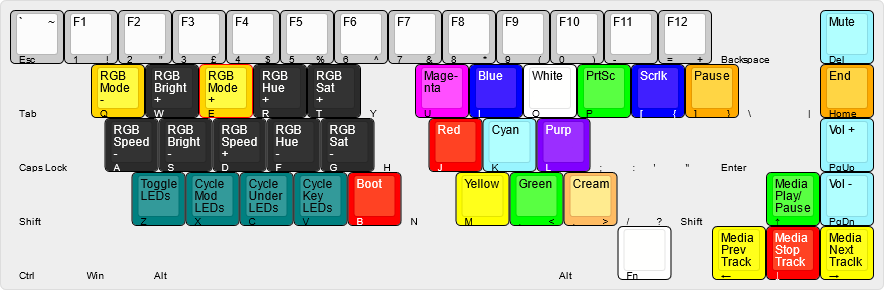
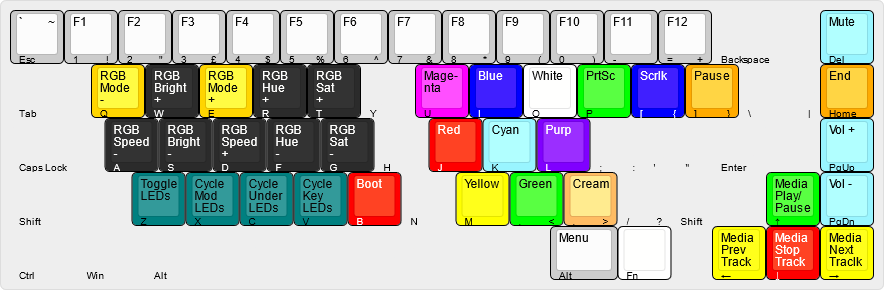
fix cycle key colors for alt vs (#10)
* fix cycle key colors for alt vs

* Add led for menu key and update KLE layout

Changed region(s): [[0.6109, 0.7759, 0.7025, 0.9931], [0.2138, 0.2172, 0.2749, 0.2483], [0.2443, 0.4034, 0.2749, 0.4345]]

diff --git a/keyboards/drop/alt/keymaps/beiufin/keymap.c b/keyboards/drop/alt/keymaps/beiufin/keymap.c
@@ -112,8 +112,8 @@ const uint8_t PROGMEM ledmap[][RGB_MATRIX_LED_COUNT][3] = {
         WHITE,   WHITE,   WHITE,   WHITE,   WHITE,   WHITE,   WHITE,   WHITE,   WHITE,   WHITE,   WHITE,   WHITE,   WHITE,   _______, AZURE,
         _______, GOLD,    CUSTHSV, GOLD,    CUSTHSV, CUSTHSV, _______, MAGENT,  BLUE,    WHITE,   GREEN,   BLUE,    ORANGE,  _______, ORANGE,
         TRHSV,   CUSTHSV, CUSTHSV, CUSTHSV, CUSTHSV, CUSTHSV, _______, RED,     CYAN,    PURPLE,  _______, _______,          KLHSV,   AZURE,
-        _______, TEAL,    _______, _______, _______, RED,     _______, YELLOW,  GREEN,   CREAM,   _______, _______,          GREEN,   AZURE,
-        _______, _______, _______,                            _______,                            _______, _______, YELLOW,  RED,     YELLOW,
+        _______, TEAL,    TEAL,    TEAL,    TEAL,    RED,     _______, YELLOW,  GREEN,   CREAM,   _______, _______,          GREEN,   AZURE,
+        _______, _______, _______,                            _______,                            WHITE,   _______, YELLOW,  RED,     YELLOW,
         // UnderGlow
         CHART,   CHART,   CHART,   CHART,   CHART,   CHART,   CHART,   CHART,   CHART,   CHART,   CHART,   CHART,   CHART,   CHART,   CHART,
         CHART,                                                                                                                        CHART,
